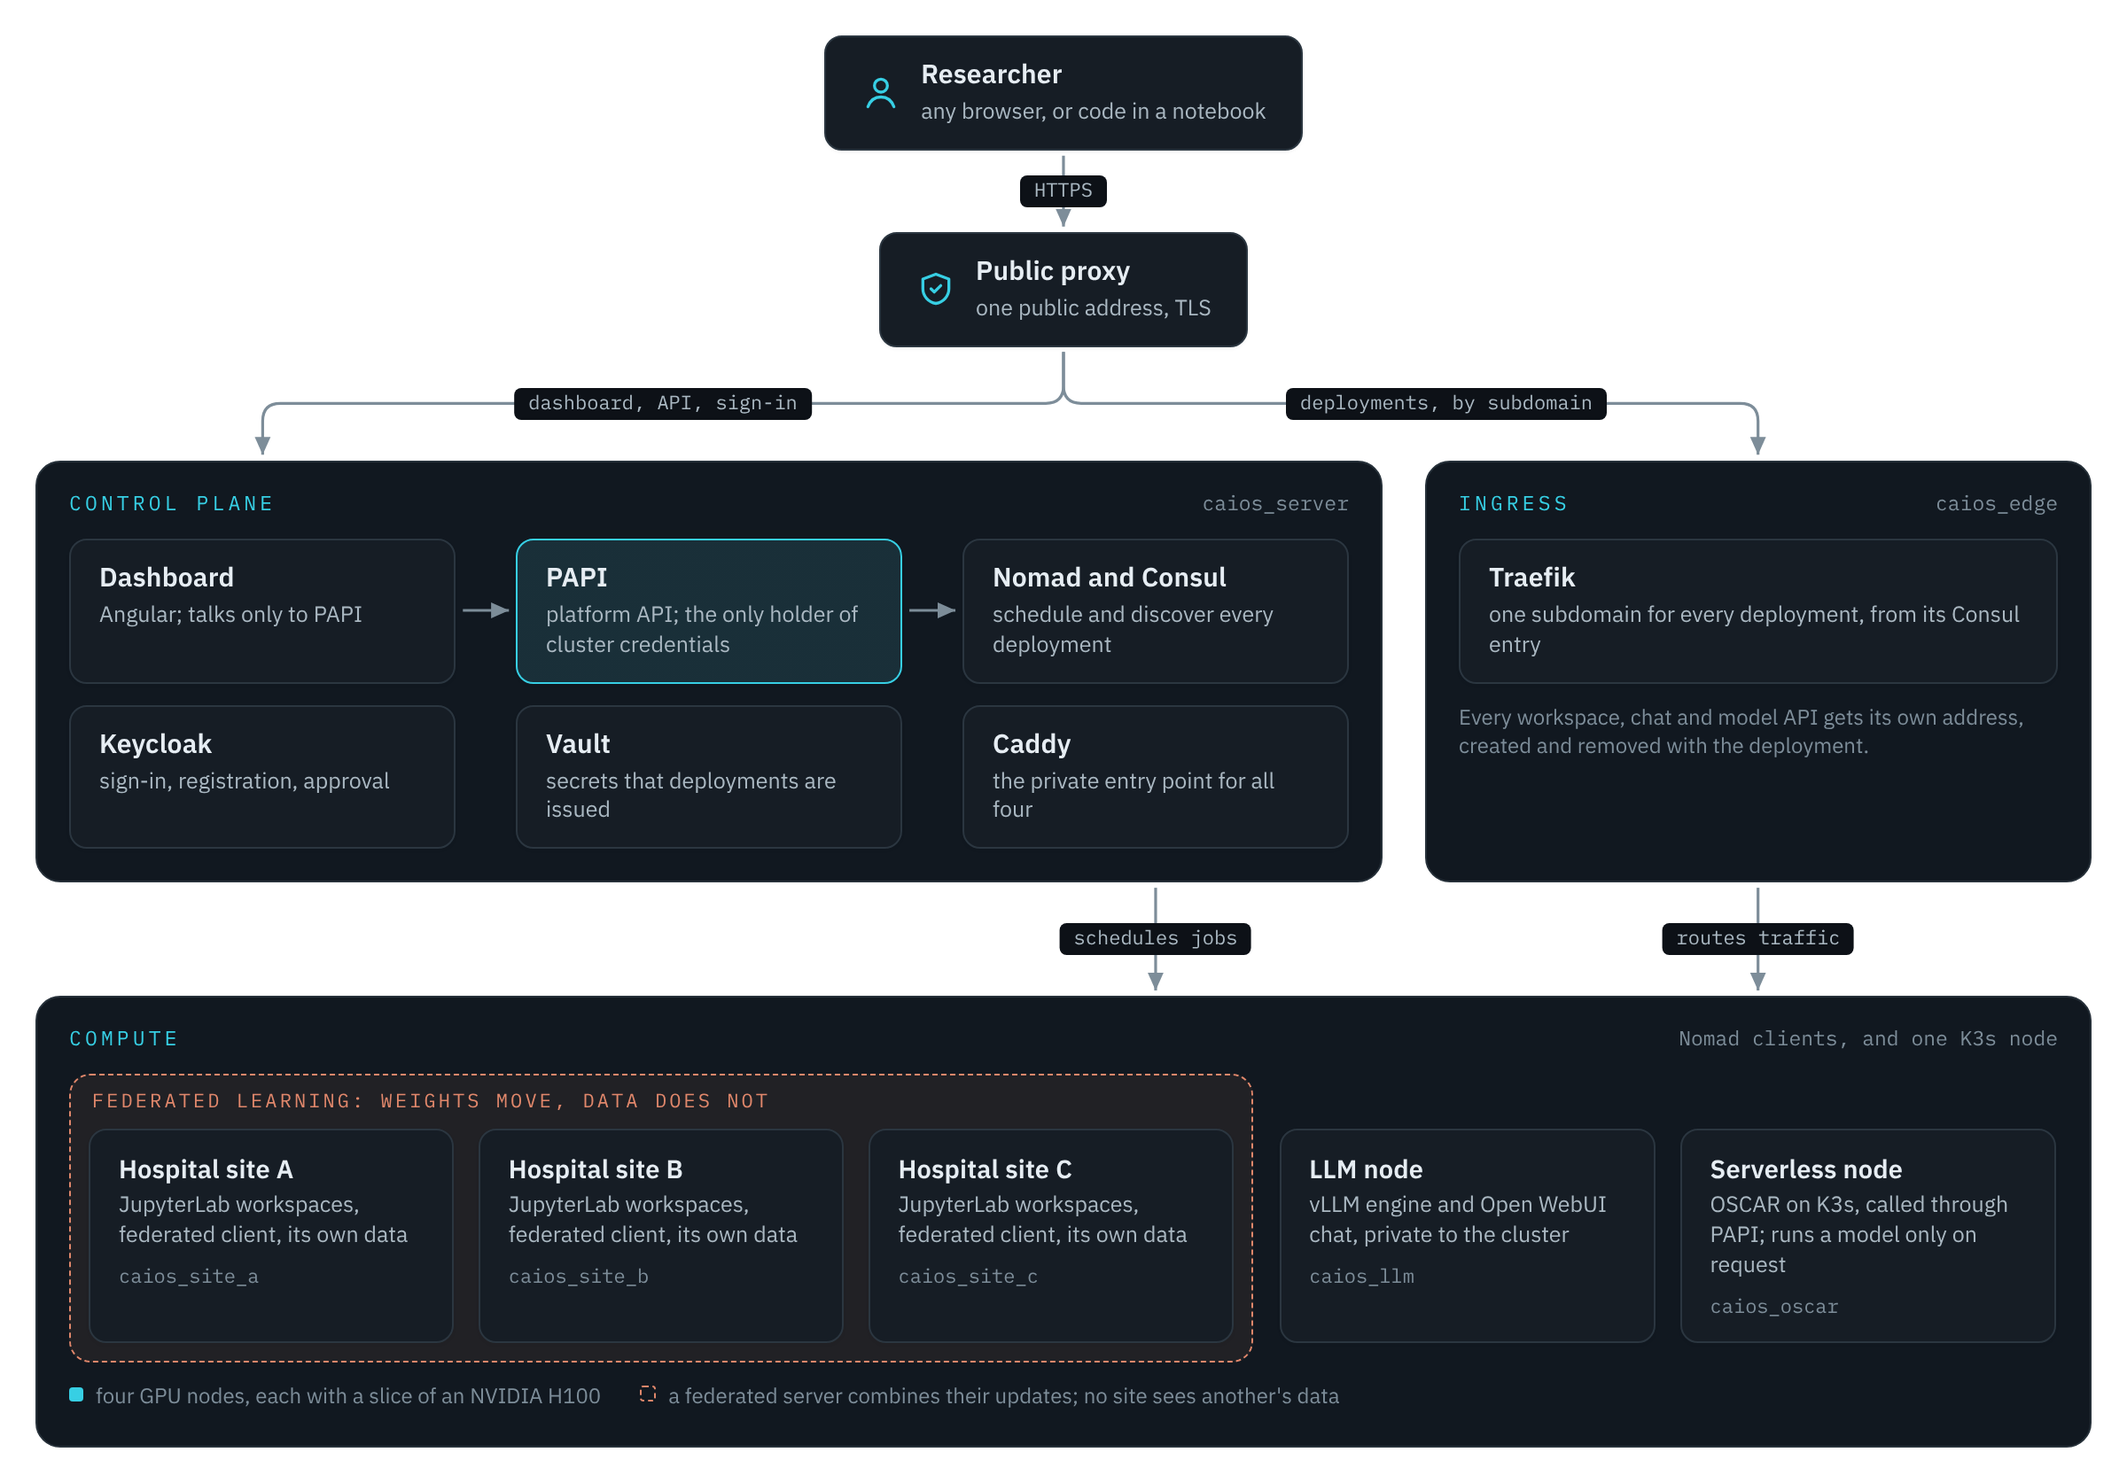
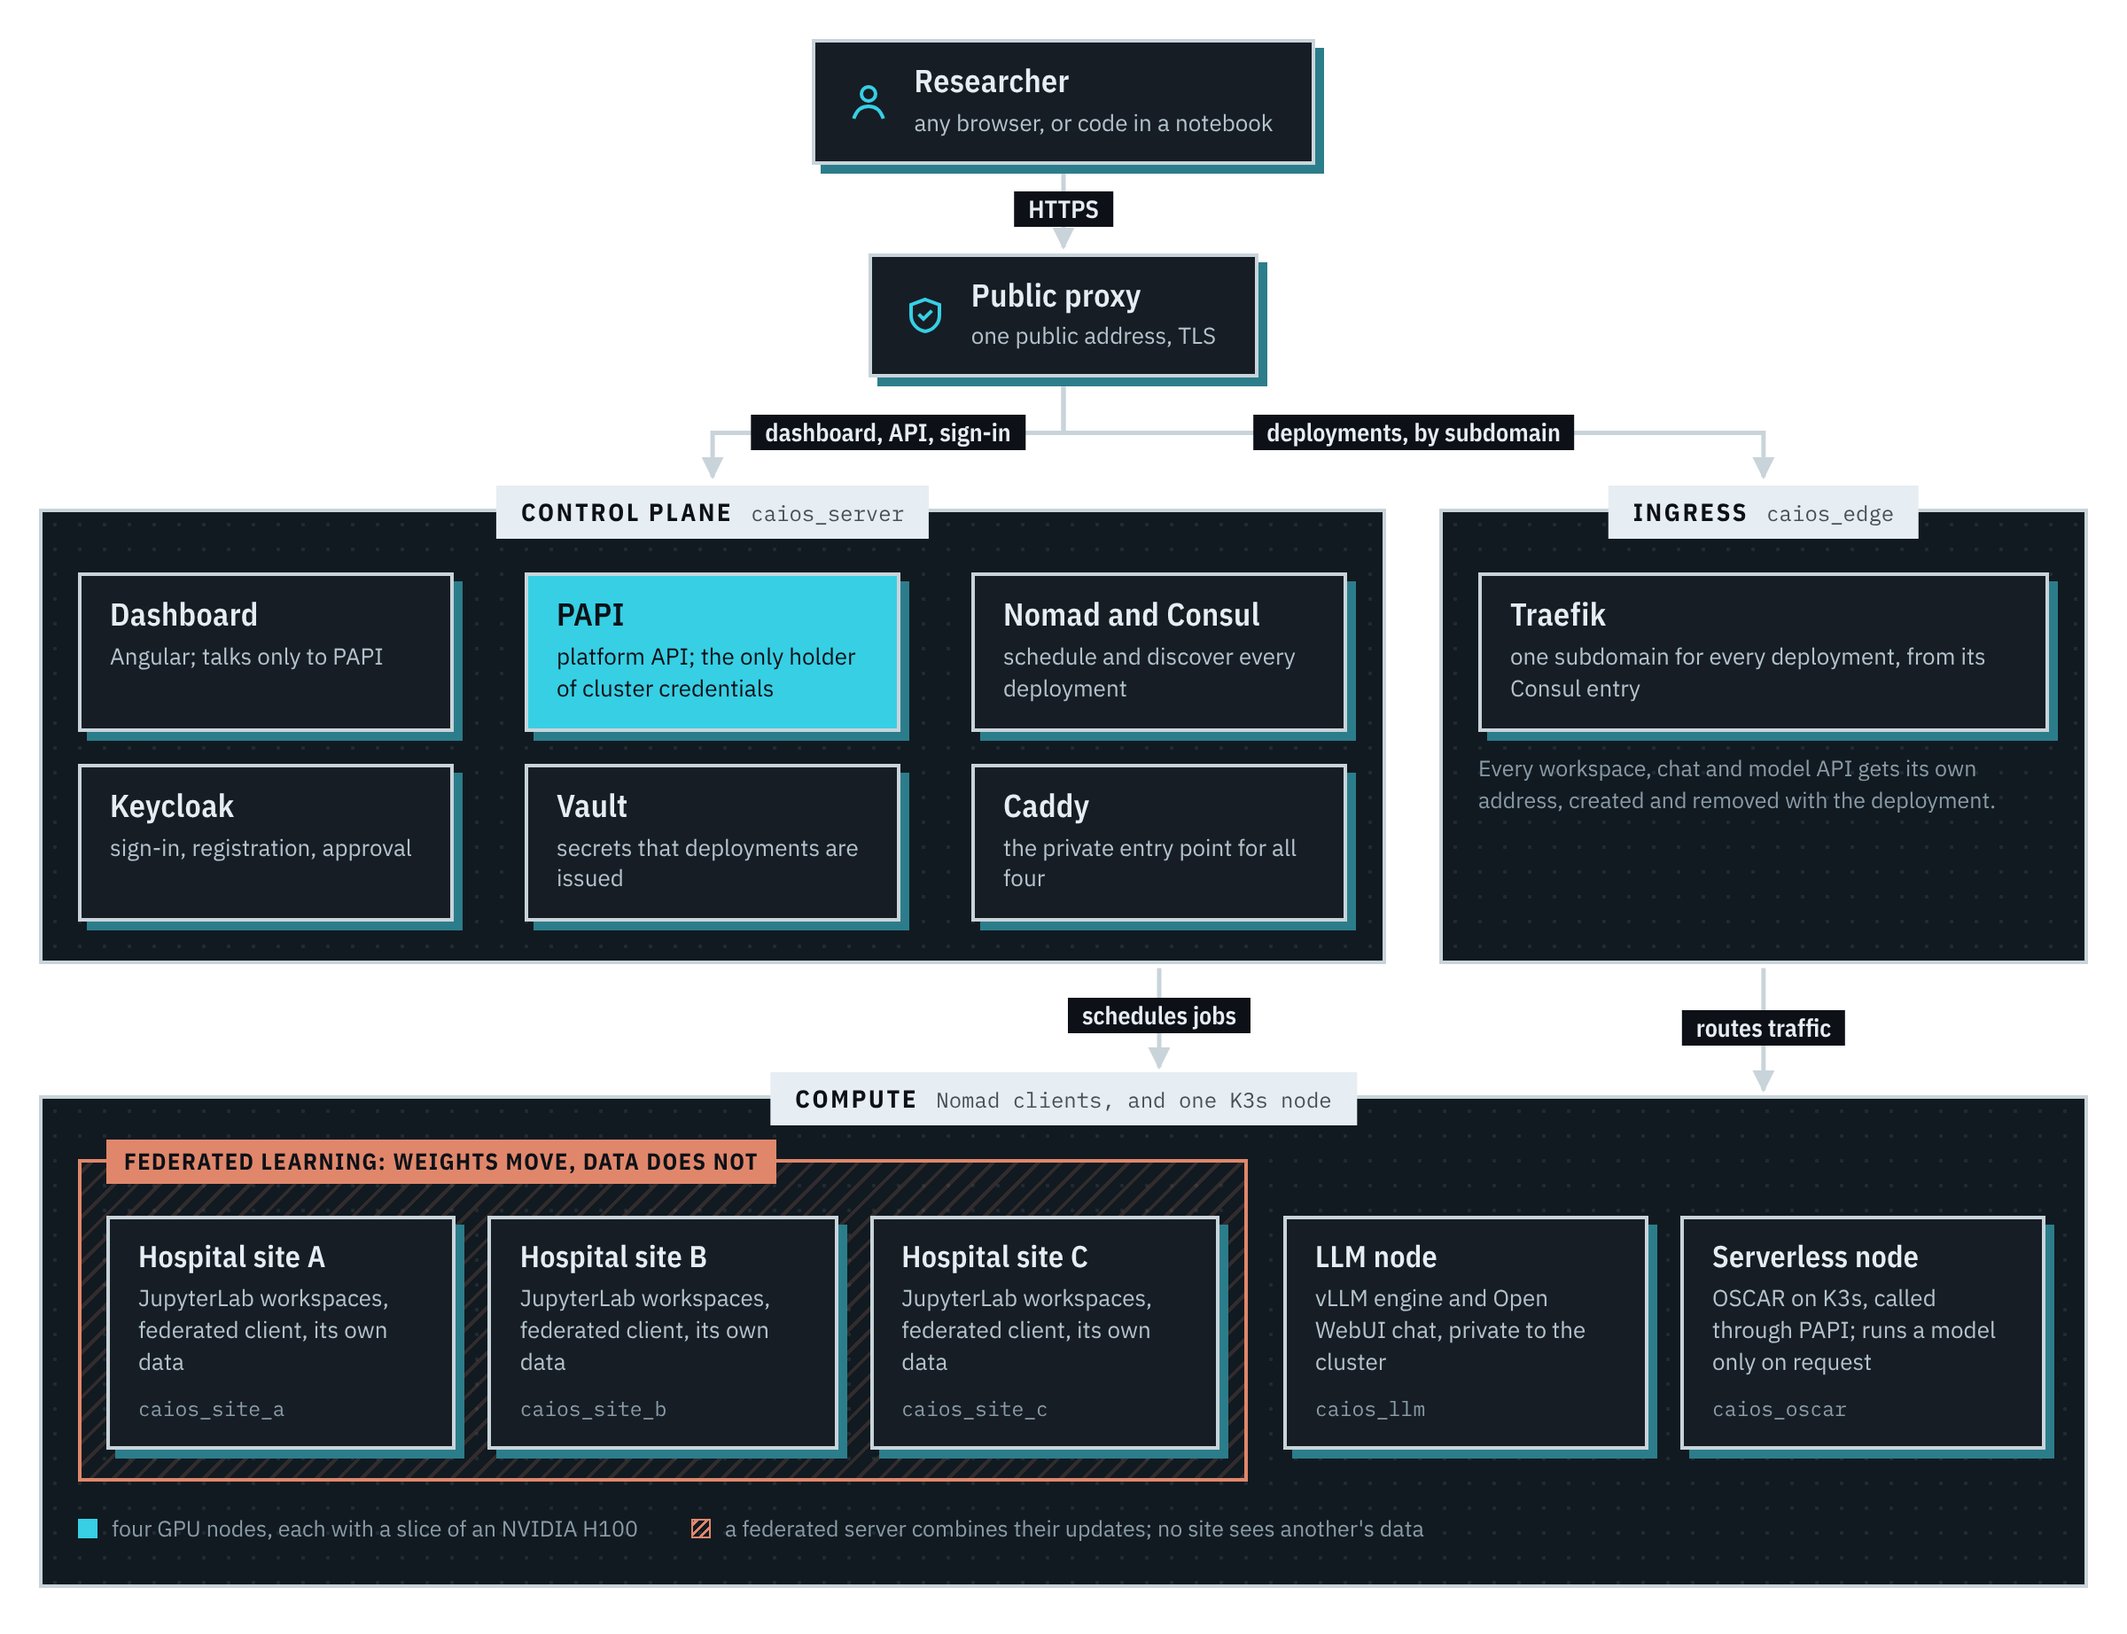
readme: the architecture diagram is drawn like a printed manual
Same content and the same layout as before; only the look changes, away
from rounded cards, soft shadows and pastel panels. Square corners and
solid outlines with a hard offset shadow, each tier named by a solid tab
the arrows land on, PAPI as the one solid block, the three hospital
sites on a hatched band, condensed type for names, and labels that
knock out the line instead of sitting in pills.

readme_media.py card <file> <name> <width> renders any card, which is
how the alternatives were compared.

Changed region(s): [[0.0, 0.0, 1.0, 0.994], [0.6875, 0.5902, 0.9688, 0.6834]]

diff --git a/demo/recording/cards/architecture.html b/demo/recording/cards/architecture.html
@@ -5,73 +5,87 @@
 <title>CAIOS architecture</title>
 <link rel="stylesheet" href="card.css">
 <style>
-  /* Rendered to docs/assets/architecture-{light,dark}.png by readme_media.py.
-     ?theme=dark switches palettes. The page background is transparent; label
-     chips use GitHub's own page colour so a line appears to pass behind them. */
+  /* Rendered to docs/assets/architecture-{light,dark}.png by readme_media.py;
+     ?theme=dark switches palettes. Drawn like a page of a printed manual rather
+     than an app screen: square corners, solid outlines, hard offset shadows,
+     tiers named by a solid tab, the federation on a hatched band, and plain
+     labels that knock out the line behind them. */
   body.light {
-    --page: #ffffff; --panel: #f7f5f2; --panel-line: rgba(11, 32, 39, 0.14);
-    --card: #ffffff; --card-line: rgba(11, 32, 39, 0.16); --ink: #0b2027; --ink-2: #3d545a;
-    --ink-3: #6e858a; --accent: #0b6c7c; --accent-soft: rgba(11, 108, 124, 0.08);
-    --wire: #6e858a; --warm: #a8452c; --warm-soft: rgba(168, 69, 44, 0.07);
+    --page: #ffffff; --panel: #f4f1ea; --dot: rgba(11, 32, 39, 0.13); --card: #ffffff;
+    --ink: #0b2027; --ink-2: #3d545a; --ink-3: #5f777c; --line: #0b2027; --shadow: #0b2027;
+    --tab: #0b2027; --on-tab: #ffffff; --accent: #0b6c7c; --on-accent: #ffffff;
+    --warm: #a8452c; --hatch: rgba(168, 69, 44, 0.16); --on-warm: #ffffff;
   }
   body.dark {
-    --page: #0d1117; --panel: #111820; --panel-line: #263039;
-    --card: #161d25; --card-line: #2b3640; --ink: #e6edf3; --ink-2: #aab8c2;
-    --ink-3: #7d8d99; --accent: #37cfe4; --accent-soft: rgba(55, 207, 228, 0.10);
-    --wire: #7d8d99; --warm: #e0876b; --warm-soft: rgba(224, 135, 107, 0.08);
+    --page: #0d1117; --panel: #111a21; --dot: rgba(230, 237, 243, 0.08); --card: #161d25;
+    --ink: #e6edf3; --ink-2: #b4c2cb; --ink-3: #8a9ba6; --line: #c9d4da; --shadow: #2c7d8b;
+    --tab: #e6edf3; --on-tab: #0d1117; --accent: #37cfe4; --on-accent: #0d1117;
+    --warm: #e0876b; --hatch: rgba(224, 135, 107, 0.16); --on-warm: #0d1117;
   }
   html, body { background: transparent; overflow: visible; height: auto; }
-  body { width: 1200px; padding: 20px; color: var(--ink); position: relative; }
-  #stage { position: relative; width: 1160px; }
+  body { width: 1200px; padding: 22px 22px 26px; color: var(--ink); position: relative; }
+  #stage { position: relative; width: 1156px; }
   svg#wires { position: absolute; inset: 0; width: 100%; height: 100%; overflow: visible; pointer-events: none; }
 
   .row { display: flex; justify-content: center; }
-  .gap-s { height: 46px; } .gap-m { height: 64px; }
+  .gap-s { height: 50px; } .gap-m { height: 74px; }
 
-  .node { background: var(--card); border: 1px solid var(--card-line); border-radius: 10px;
-          padding: 12px 16px; box-shadow: 0 1px 2px rgba(0, 0, 0, 0.04); }
-  .node b { display: block; font-size: 15px; font-weight: 600; letter-spacing: 0.005em; }
-  .node span { display: block; margin-top: 3px; font-size: 12.5px; color: var(--ink-2); line-height: 1.35; }
-  .node.entry { display: flex; align-items: center; gap: 12px; padding: 12px 20px; }
-  .node.entry svg { width: 22px; height: 22px; flex: none; stroke: var(--accent); fill: none; stroke-width: 1.8;
-                    stroke-linecap: round; stroke-linejoin: round; }
-  .node.key { border-color: var(--accent); background: linear-gradient(var(--accent-soft), var(--accent-soft)), var(--card); }
+  .node { position: relative; background: var(--card); border: 2px solid var(--line); border-radius: 0;
+          padding: 12px 16px 13px; box-shadow: 5px 5px 0 var(--shadow); }
+  .node b { display: block; font-family: 'IBM Plex Sans Condensed', 'IBM Plex Sans', sans-serif;
+            font-size: 18px; font-weight: 600; letter-spacing: 0.01em; line-height: 1.15; }
+  .node span { display: block; margin-top: 4px; font-size: 13px; color: var(--ink-2); line-height: 1.38; }
+  .node.entry { display: flex; align-items: center; gap: 14px; padding: 12px 22px 12px 18px; }
+  .node.entry svg { width: 24px; height: 24px; flex: none; stroke: var(--accent); fill: none; stroke-width: 2;
+                    stroke-linecap: square; stroke-linejoin: miter; }
+  .node.key { background: var(--accent); }
+  .node.key b, .node.key span { color: var(--on-accent); }
 
-  .panel { background: var(--panel); border: 1px solid var(--panel-line); border-radius: 14px; padding: 16px 18px 18px; }
-  .panel header { display: flex; align-items: baseline; justify-content: space-between; margin-bottom: 12px; }
-  .kicker { font-family: var(--mono); font-size: 11.5px; letter-spacing: 0.18em; text-transform: uppercase; color: var(--accent); }
-  .host { font-family: var(--mono); font-size: 11.5px; color: var(--ink-3); }
+  .panel { position: relative; background-color: var(--panel); border: 2px solid var(--line); border-radius: 0;
+           background-image: radial-gradient(var(--dot) 1px, transparent 1.2px); background-size: 14px 14px;
+           padding: 34px 20px 22px; }
+  .panel header { position: absolute; top: -15px; left: 50%; transform: translateX(-50%); display: flex;
+                  align-items: baseline; gap: 10px; background: var(--tab); color: var(--on-tab);
+                  padding: 6px 14px 6px; white-space: nowrap; }
+  .kicker { font-family: 'IBM Plex Sans Condensed', sans-serif; font-size: 14px; font-weight: 700;
+            letter-spacing: 0.1em; text-transform: uppercase; }
+  .host { font-family: 'IBM Plex Mono', monospace; font-size: 12px; opacity: 0.72; }
 
-  .tier { display: grid; grid-template-columns: 760px 1fr; gap: 24px; }
-  .cp-row { display: grid; grid-template-columns: 1fr 1fr 1fr; gap: 34px; }
-  .cp-row + .cp-row { margin-top: 12px; }
+  .tier { display: grid; grid-template-columns: 760px 1fr; gap: 30px; }
+  .cp-row { display: grid; grid-template-columns: 1fr 1fr 1fr; gap: 40px; }
+  .cp-row + .cp-row { margin-top: 18px; }
   .cp-row.services { grid-template-columns: 1fr 1fr 1fr; }
-  .note { font-size: 12px; color: var(--ink-3); line-height: 1.4; }
+  .note { font-size: 12.5px; color: var(--ink-3); line-height: 1.45; }
 
-  .compute { display: grid; grid-template-columns: 1fr 1fr 1fr 1fr 1fr; gap: 14px; }
-  .compute .node b { font-size: 14.5px; }
-  .compute .node i { display: block; margin-top: 8px; font-style: normal; font-family: var(--mono); font-size: 11px; color: var(--ink-3); }
-  .fed { position: relative; grid-column: 1 / span 3; display: grid; grid-template-columns: 1fr 1fr 1fr; gap: 14px;
-         border: 1.5px dashed var(--warm); border-radius: 12px; padding: 30px 10px 10px; background: var(--warm-soft); }
-  .solo { grid-column: 4 / span 2; display: grid; grid-template-columns: 1fr 1fr; gap: 14px;
-          border: 1.5px solid transparent; padding: 30px 0 10px; }
-  .fed-label { position: absolute; top: 8px; left: 12px; font-family: var(--mono); font-size: 11px;
-               letter-spacing: 0.14em; text-transform: uppercase; color: var(--warm); }
-  .gpu { margin-top: 12px; display: flex; gap: 22px; }
-  .gpu .note::before { content: ""; display: inline-block; width: 8px; height: 8px; border-radius: 2px;
-                       margin-right: 7px; background: var(--accent); vertical-align: 1px; }
-  .gpu .note.warm::before { background: transparent; border: 1.5px dashed var(--warm); width: 7px; height: 7px; }
+  .compute { display: grid; grid-template-columns: 1fr 1fr 1fr 1fr 1fr; gap: 18px; }
+  .compute .node b { font-size: 17px; }
+  .compute .node i { display: block; margin-top: 10px; font-style: normal; font-family: 'IBM Plex Mono', monospace;
+                     font-size: 11.5px; color: var(--ink-3); }
+  .fed { position: relative; grid-column: 1 / span 3; display: grid; grid-template-columns: 1fr 1fr 1fr; gap: 18px;
+         border: 2px solid var(--warm); padding: 30px 14px 16px;
+         background: repeating-linear-gradient(-45deg, var(--hatch) 0 2px, transparent 2px 9px); }
+  .solo { grid-column: 4 / span 2; display: grid; grid-template-columns: 1fr 1fr; gap: 18px;
+          border: 2px solid transparent; padding: 30px 0 16px; }
+  .fed-label { position: absolute; top: -13px; left: 14px; background: var(--warm); color: var(--on-warm);
+               padding: 4px 10px; font-family: 'IBM Plex Sans Condensed', sans-serif; font-size: 13px;
+               font-weight: 700; letter-spacing: 0.06em; text-transform: uppercase; }
+  .gpu { margin-top: 18px; display: flex; gap: 30px; }
+  .gpu .note::before { content: ""; display: inline-block; width: 11px; height: 11px; margin-right: 8px;
+                       background: var(--accent); vertical-align: -1px; }
+  .gpu .note.warm::before { background: repeating-linear-gradient(-45deg, var(--warm) 0 1.5px, transparent 1.5px 4px);
+                            outline: 1.5px solid var(--warm); outline-offset: -1.5px; }
 
-  .label { position: absolute; transform: translate(-50%, -50%); background: var(--page); padding: 2px 8px;
-           font-family: var(--mono); font-size: 11px; color: var(--ink-2); white-space: nowrap; border-radius: 4px; }
+  .label { position: absolute; transform: translate(-50%, -50%); background: var(--page); padding: 1px 8px;
+           font-family: 'IBM Plex Sans Condensed', sans-serif; font-size: 14px; font-weight: 600;
+           color: var(--ink); white-space: nowrap; }
 </style>
 </head>
 <body>
 <div id="stage">
   <svg id="wires" aria-hidden="true">
     <defs>
-      <marker id="head" viewBox="0 0 10 10" refX="9" refY="5" markerWidth="7" markerHeight="7" orient="auto-start-reverse">
-        <path d="M 0 1 L 9 5 L 0 9 z" fill="var(--wire)"/>
+      <marker id="head" viewBox="0 0 10 10" refX="9" refY="5" markerWidth="5" markerHeight="5" orient="auto-start-reverse">
+        <path d="M 0 0 L 10 5 L 0 10 z" fill="var(--line)"/>
       </marker>
     </defs>
   </svg>
@@ -147,8 +161,8 @@
   };
   const path = (d, dashed) => {
     const p = document.createElementNS('http://www.w3.org/2000/svg', 'path');
-    p.setAttribute('d', d); p.setAttribute('fill', 'none'); p.setAttribute('stroke', 'var(--wire)');
-    p.setAttribute('stroke-width', '1.6'); p.setAttribute('marker-end', 'url(#head)');
+    p.setAttribute('d', d); p.setAttribute('fill', 'none'); p.setAttribute('stroke', 'var(--line)');
+    p.setAttribute('stroke-width', '2.5'); p.setAttribute('stroke-linejoin', 'miter'); p.setAttribute('marker-end', 'url(#head)');
     if (dashed) p.setAttribute('stroke-dasharray', '4 4');
     svg.appendChild(p);
   };
@@ -156,40 +170,39 @@
     const el = document.createElement('div'); el.className = 'label'; el.textContent = text;
     el.style.left = x + 'px'; el.style.top = y + 'px'; stage.appendChild(el);
   };
-  // Down from (x1, y1), across at yMid, down to (x2, y2), with rounded corners.
-  const elbow = (x1, y1, x2, y2, yMid) => {
-    if (Math.abs(x1 - x2) < 1) return `M ${x1} ${y1} L ${x2} ${y2}`;
-    const dir = x2 > x1 ? 1 : -1;
-    return `M ${x1} ${y1} L ${x1} ${yMid - R} Q ${x1} ${yMid} ${x1 + dir * R} ${yMid} ` +
-           `L ${x2 - dir * R} ${yMid} Q ${x2} ${yMid} ${x2} ${yMid + R} L ${x2} ${y2}`;
-  };
+  // Down from (x1, y1), across at yMid, down to (x2, y2): square corners.
+  const elbow = (x1, y1, x2, y2, yMid) =>
+    Math.abs(x1 - x2) < 1 ? `M ${x1} ${y1} L ${x2} ${y2}` : `M ${x1} ${y1} L ${x1} ${yMid} L ${x2} ${yMid} L ${x2} ${y2}`;
   const across = (a, b) => {
     const A = box(a), B = box(b), y = A.cy;
-    path(`M ${A.r + 4} ${y} L ${B.l - 4} ${y}`);
+    path(`M ${A.r + 2} ${y} L ${B.l - 3} ${y}`);
   };
 
   document.fonts.ready.then(() => {
     const u = box('user'), p = box('proxy'), cp = box('cp'), ing = box('ingress'), c = box('compute');
     const nomad = box('nomad'), traefik = box('traefik'), papi = box('papi'), oscar = box('oscar'), llm = box('llm');
 
-    path(`M ${u.cx} ${u.b + 3} L ${p.cx} ${p.t - 3}`);
+    path(`M ${u.cx} ${u.b + 5} L ${p.cx} ${p.t - 3}`);
     label(u.cx, (u.b + p.t) / 2, 'HTTPS');
 
-    const split = (p.b + cp.t) / 2;
-    const cpx = box('dash').cx;
-    path(elbow(p.cx, p.b + 3, cpx, cp.t - 3, split));
-    path(elbow(p.cx, p.b + 3, ing.cx, ing.t - 3, split));
-    label((p.cx + cpx) / 2, split, 'dashboard, API, sign-in');
-    label((p.cx + ing.cx) / 2 + 20, split, 'deployments, by subdomain');
+    const split = (p.b + cp.t) / 2 - 6;
+    const tabTop = (id) => box(id).t - 15;
+    path(elbow(p.cx, p.b + 5, cp.cx, tabTop('cp') - 3, split));
+    path(elbow(p.cx, p.b + 5, ing.cx, tabTop('ingress') - 3, split));
+    label((p.cx + cp.cx) / 2, split, 'dashboard, API, sign-in');
+    label((p.cx + ing.cx) / 2, split, 'deployments, by subdomain');
 
     across('dash', 'papi');
     across('papi', 'nomad');
 
-    const low = (cp.b + c.t) / 2;
-    path(`M ${nomad.cx} ${cp.b + 3} L ${nomad.cx} ${c.t - 3}`);
+    // An arrow that lands where the compute tier's tab sits stops at the tab.
+    const tab = document.querySelector('#compute header').getBoundingClientRect(), st = stage.getBoundingClientRect();
+    const landing = (x) => (x > tab.left - st.left - 4 && x < tab.right - st.left + 4) ? tab.top - st.top - 3 : c.t - 3;
+    const low = (cp.b + landing(nomad.cx)) / 2;
+    path(`M ${nomad.cx} ${cp.b + 2} L ${nomad.cx} ${landing(nomad.cx)}`);
     label(nomad.cx, low, 'schedules jobs');
-    path(`M ${traefik.cx} ${ing.b + 3} L ${traefik.cx} ${c.t - 3}`);
-    label(traefik.cx, low, 'routes traffic');
+    path(`M ${traefik.cx} ${ing.b + 2} L ${traefik.cx} ${landing(traefik.cx)}`);
+    label(traefik.cx, (ing.b + landing(traefik.cx)) / 2, 'routes traffic');
 
     svg.setAttribute('viewBox', `0 0 ${stage.offsetWidth} ${stage.offsetHeight}`);
     document.body.dataset.ready = '1';

diff --git a/demo/recording/readme_media.py b/demo/recording/readme_media.py
@@ -115,6 +115,10 @@ def light():
 
 
 if __name__ == "__main__":
+    if sys.argv[1:2] == ["card"]:
+        # readme_media.py card <file.html> <output-name> <width>: any card, light and dark
+        draw(sys.argv[2], sys.argv[3], int(sys.argv[4]))
+        sys.exit(0)
     which = sys.argv[1:] or ["logo", "architecture", "preview", "light"]
     if "logo" in which:
         logo()
